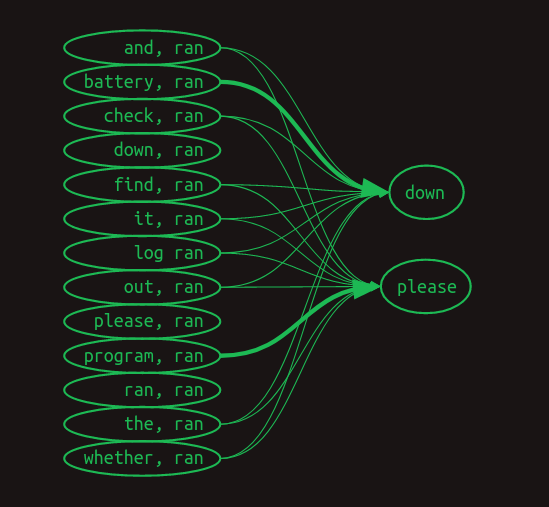
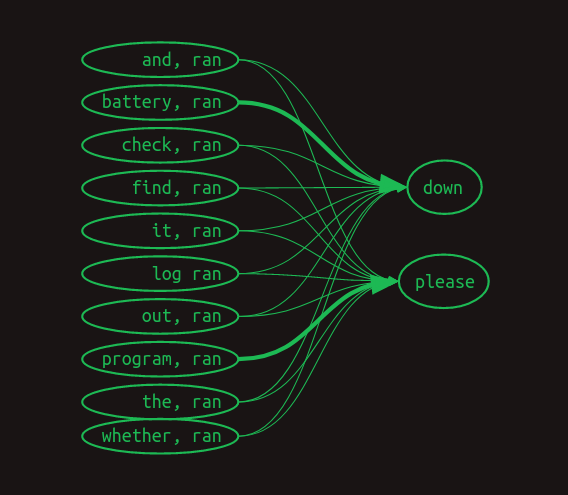
transformers post edited

Changed region(s): [[0.0929, 0.0303, 0.867, 0.9394], [0.7432, 0.4242, 0.8051, 0.4545]]

diff --git a/transformers.html b/transformers.html
@@ -387,19 +387,20 @@
           the next word will be <em>please</em>. This eliminates one of
           the branches in the model, reducing uncertainty and increasing
           confidence.
+          Looking back two words turns this into a second order Markov model.
+          It gives more context on which to base next word predictions.
+          Second order Markov chains are more challenging to
+          draw, but here are the connections that demonstrate their value.
         </p>
         <p style="text-align:center;">
           <img title="Second order Markov chain"
             src="images/transformers/markov_chain_second_order.png"
             alt="Second order Markov chain"
-            style="height: 350px;">
+            style="height:250px;">
         </p>
         <p>
-          Looking back two words turns this into a second order Markov model.
-          It gives more context on which to base next word predictions.
-          It's tougher to draw a second-order Markov chain, but we can see
-          it in a transition matrix. To illustrate the difference,
-          here is the first order transition matrix.
+          To highlight the difference between the two,
+          here is the first order transition matrix,
         </p>
         <p style="text-align:center;">
           <img title="Another first order transition matrix"
@@ -408,7 +409,7 @@
             style="height: 350px;">
         </p>
         <p>
-          And here the second order transition matrix.
+          and here is the second order transition matrix.
         </p>
         <p style="text-align:center;">
           <img title="Second order transition matrix"
@@ -455,16 +456,10 @@
           If we want to improve on our second order language model,
           we can of course consider third- and higher order models.
           However, with a significant vocabulary size this takes
-          a combination of creativity, simplification, and brute force
+          a combination of creativity and brute force
           to execute. A naive implementation of an eighth order model
           would have <em>N</em>^8 rows, a ridiculous number for any
           reasonable vocubulary.
-        </p>
-        <p style="text-align:center;">
-          <img title="Second order with skips feature voting"
-            src="images/transformers/feature_voting.png"
-            alt="Second order with skips feature voting"
-            style="height: 350px;">
         </p>
         <p>
           Instead, we can do something sly and make a second order model,
@@ -476,7 +471,23 @@
           second-order-with-skips and a full umpteenth-order model is that
           we discard most of the word order information and
           combinations of preceeeding words. What remains is still pretty
-          powerful. Here's what it might look like in a transition matrix.
+          powerful.
+        </p>
+        <p>
+          Markov chains fail us entirely now, but we can still represent
+          the link between each pair of preceding words and the words
+          that follow. Here we've dispensed with numerical weights, and
+          instead are showing only the arrows associated with non-zero weights.
+          Larger weights are shown with heavier lines.
+        </p>
+        <p style="text-align:center;">
+          <img title="Second order with skips feature voting"
+            src="images/transformers/feature_voting.png"
+            alt="Second order with skips feature voting"
+            style="height: 350px;">
+        </p>
+        <p>
+          Here's what it might look like in a transition matrix.
         </p>
         <p style="text-align:center;">
           <img title="Second order with skips transition matrix"
